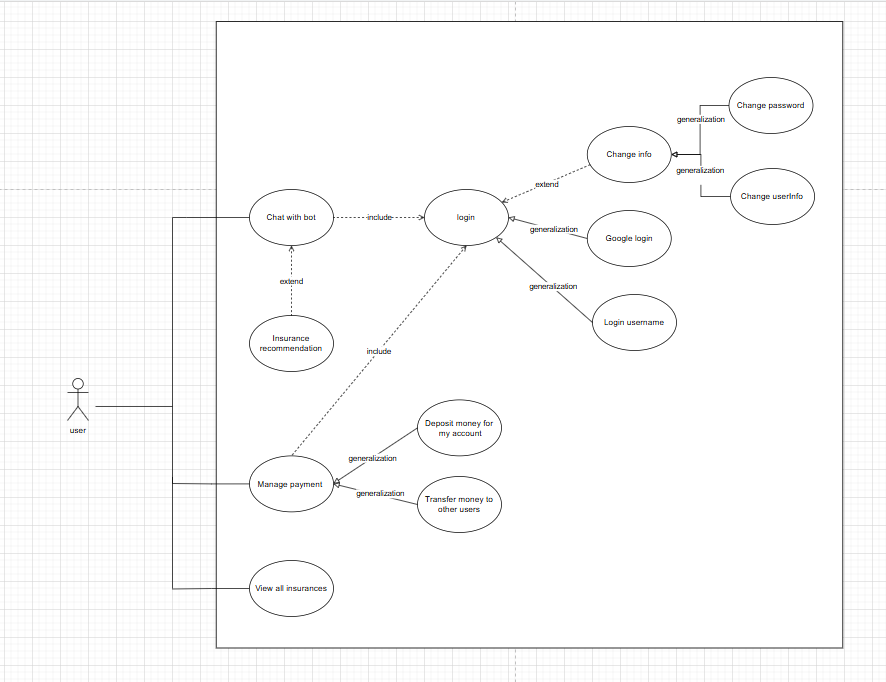
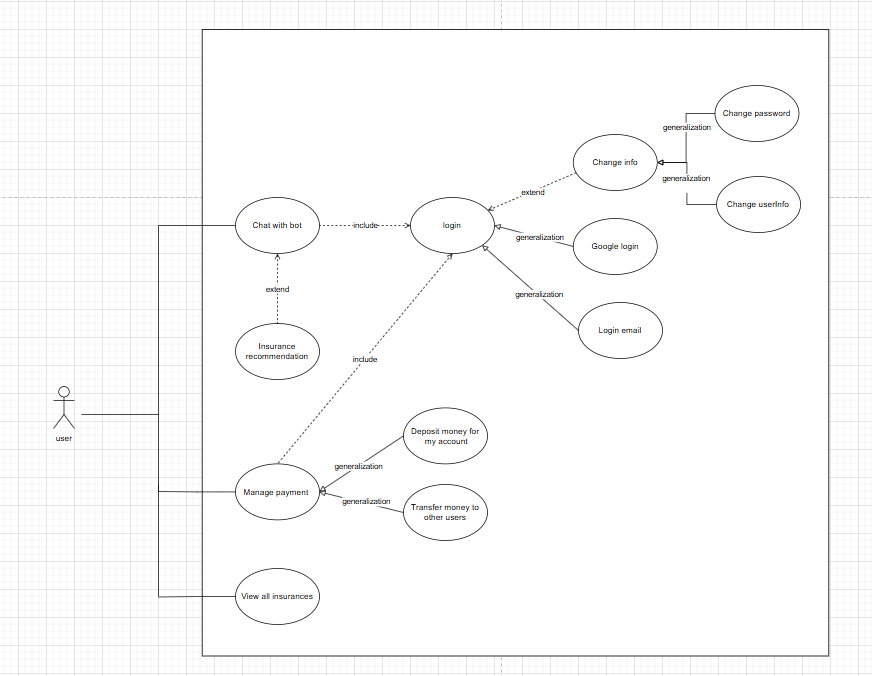
update profile and pictures

diff --git a/profile/README.md b/profile/README.md
@@ -1,8 +1,13 @@
-# 🛡 AI Chatbot & CRM Tagging for Insurance - Internal Web Tool
+# 🛡 AI Chatbot & CRM Tagging for Insurance
 
 ## 📌 Overview
 
-This project is an **internal AI assistant tool** for a local insurance company. It supports marketing teams in **conversationally recommending VHIS insurance plans** while also building a **CRM tagging pipeline** to assist with user classification and campaign retargeting. The chatbot leverages Google Gemini and a local semantic similarity model to provide accurate, personalized suggestions.
+This project is an **AI assistant platform for both end-users and internal teams** at a local insurance company.
+
+- For **customers**, it acts as a **conversational recommendation assistant**, helping them find the most suitable VHIS insurance plans based on personal needs.
+- For **internal marketing teams**, it builds a **CRM tagging pipeline** to classify user intents and enable behavioral analytics for future campaign retargeting.
+
+The chatbot leverages both **Google Gemini** for natural conversation and **a custom-trained local semantic similarity model** to ensure personalized and relevant plan suggestions.
 
 ---
 
@@ -24,7 +29,7 @@ This project is an **internal AI assistant tool** for a local insurance company.
 
 ### 3. 🔐 Authentication (Optional Feature)
 
-- Google Sign-in / Username login with session handling.
+- Google Sign-in / Email login with session handling.
 
 ### 4. 💳 Insurance Browsing & Payment (Optional Feature)
 
@@ -36,15 +41,16 @@ This project is an **internal AI assistant tool** for a local insurance company.
 
 ## 🎯 Target Audience
 
-- Internal marketing team members.
-- Use case: pre-screening leads, generating interest, guiding suitable campaigns.
+- Consumers looking for insurance products that match their personal needs.
+- Non-technical users who may require assistance from an AI-powered chatbot.
+- Customer advisors leveraging the system to recommend insurance plans and analyze customer behavior via the CRM. 
 
 ### 📷 Use case Diagram
 
 Below are some visual examples to better understand the use case and flow of the tool:
 
 **Chatbot Interface**  
-  ![Chatbot Interface](./pictures/system_usecase.png)
+  ![Chatbot Interface](../pictures/system_usecase.png)
 
 
 ## 🏗 Architecture
@@ -56,8 +62,7 @@ Below are some visual examples to better understand the use case and flow of the
   - Local Semantic Search Model (`POST 192.168.4.154:8000/sendMsg`).
 
 **Deployment Diagram**  
-  ![Deployment Diagram](./pictures/system_usecase.png)
-
+  ![Deployment Diagram](../pictures/deployment_diagram.png)
 ---
 
 ## 📂 Folder Structure
@@ -78,7 +83,24 @@ Below are some visual examples to better understand the use case and flow of the
 
 ## 🔍 Implementation Walkthrough
 
-### 🧠 Gemini Prompting Flow
+### 🧪 Step 1: Semantic Matching with Local Model
+
+```ts
+const response = await axios.post('http://localhost:8000/sendMsg', {
+  text: userInput
+});
+const tags = response.data?.[0] || [];
+const ids = response.data?.[1] || [];
+```
+
+- ✅ **Purpose**: Extract semantically relevant insurance products from corpus.
+- ✅ **Output**: 
+  - A list of plan names (`tags`) with similarity scores.
+  - A list of product metadata (`ids`) to map recommended plans by index.
+
+---
+
+### 🧠 Step 2: Gemini Prompting Flow
 
 ```ts
 const prompt = buildPrompt(userInput, tags);
@@ -86,37 +108,39 @@ const prompt = buildPrompt(userInput, tags);
 // Ensures only natural language returned
 ```
 
-### 🧾 CRM Tag Logging Logic
+- 🎯 Injects user query + tag-based suggestions.
+- 🔒 Restricts output to natural language, avoiding JSON/Markdown for better UX.
+
+---
+
+### 🧾 Step 3: CRM Tag Logging Logic
 
 ```ts
 await TagLog.create({
-  name: //name of insurance,
-  type: //type of insurance, ex: "Flexi Premium",
-  targetAudience: [ //target of that products
-      "VIP clients",
-      "those with pre-existing conditions", 
-      ....
-  ],
-  features: [ //what does that products bring to
-      "Private room",
-      "Full hospital expense coverage", 
-      ....
-  ]
-})
+  name: // name of insurance,
+  type: // ex: "Flexi Premium",
+  targetAudience: [ "VIP clients", "pre-existing conditions" ],
+  features: [ "Private room", "Full hospital expense coverage" ]
+});
 ```
 
+- 📦 Stores most relevant tag per session for long-term trend tracking.
+- 📊 Enables analysis for future segmentation and retargeting.
+
+---
+
 ## Here are the flow user interact with our system: 
--   ![Login Diagram](./pictures/login_sequence.png)
+-   ![Login Diagram](../pictures/login_sequence.png)
 Login pipeline
 
 --- 
 
--   ![Payment Diagram](./pictures/payment_sequence.png)
+-   ![Payment Diagram](../pictures/payment_sequence.png)
 Payment pipeline
 
 ---
 
--   ![AI Diagram](./pictures/ai_pipeline_sequence.png)
+-   ![AI Diagram](../pictures/ai_pipeline_sequence.png)
 AI pipeline
 
 ---
